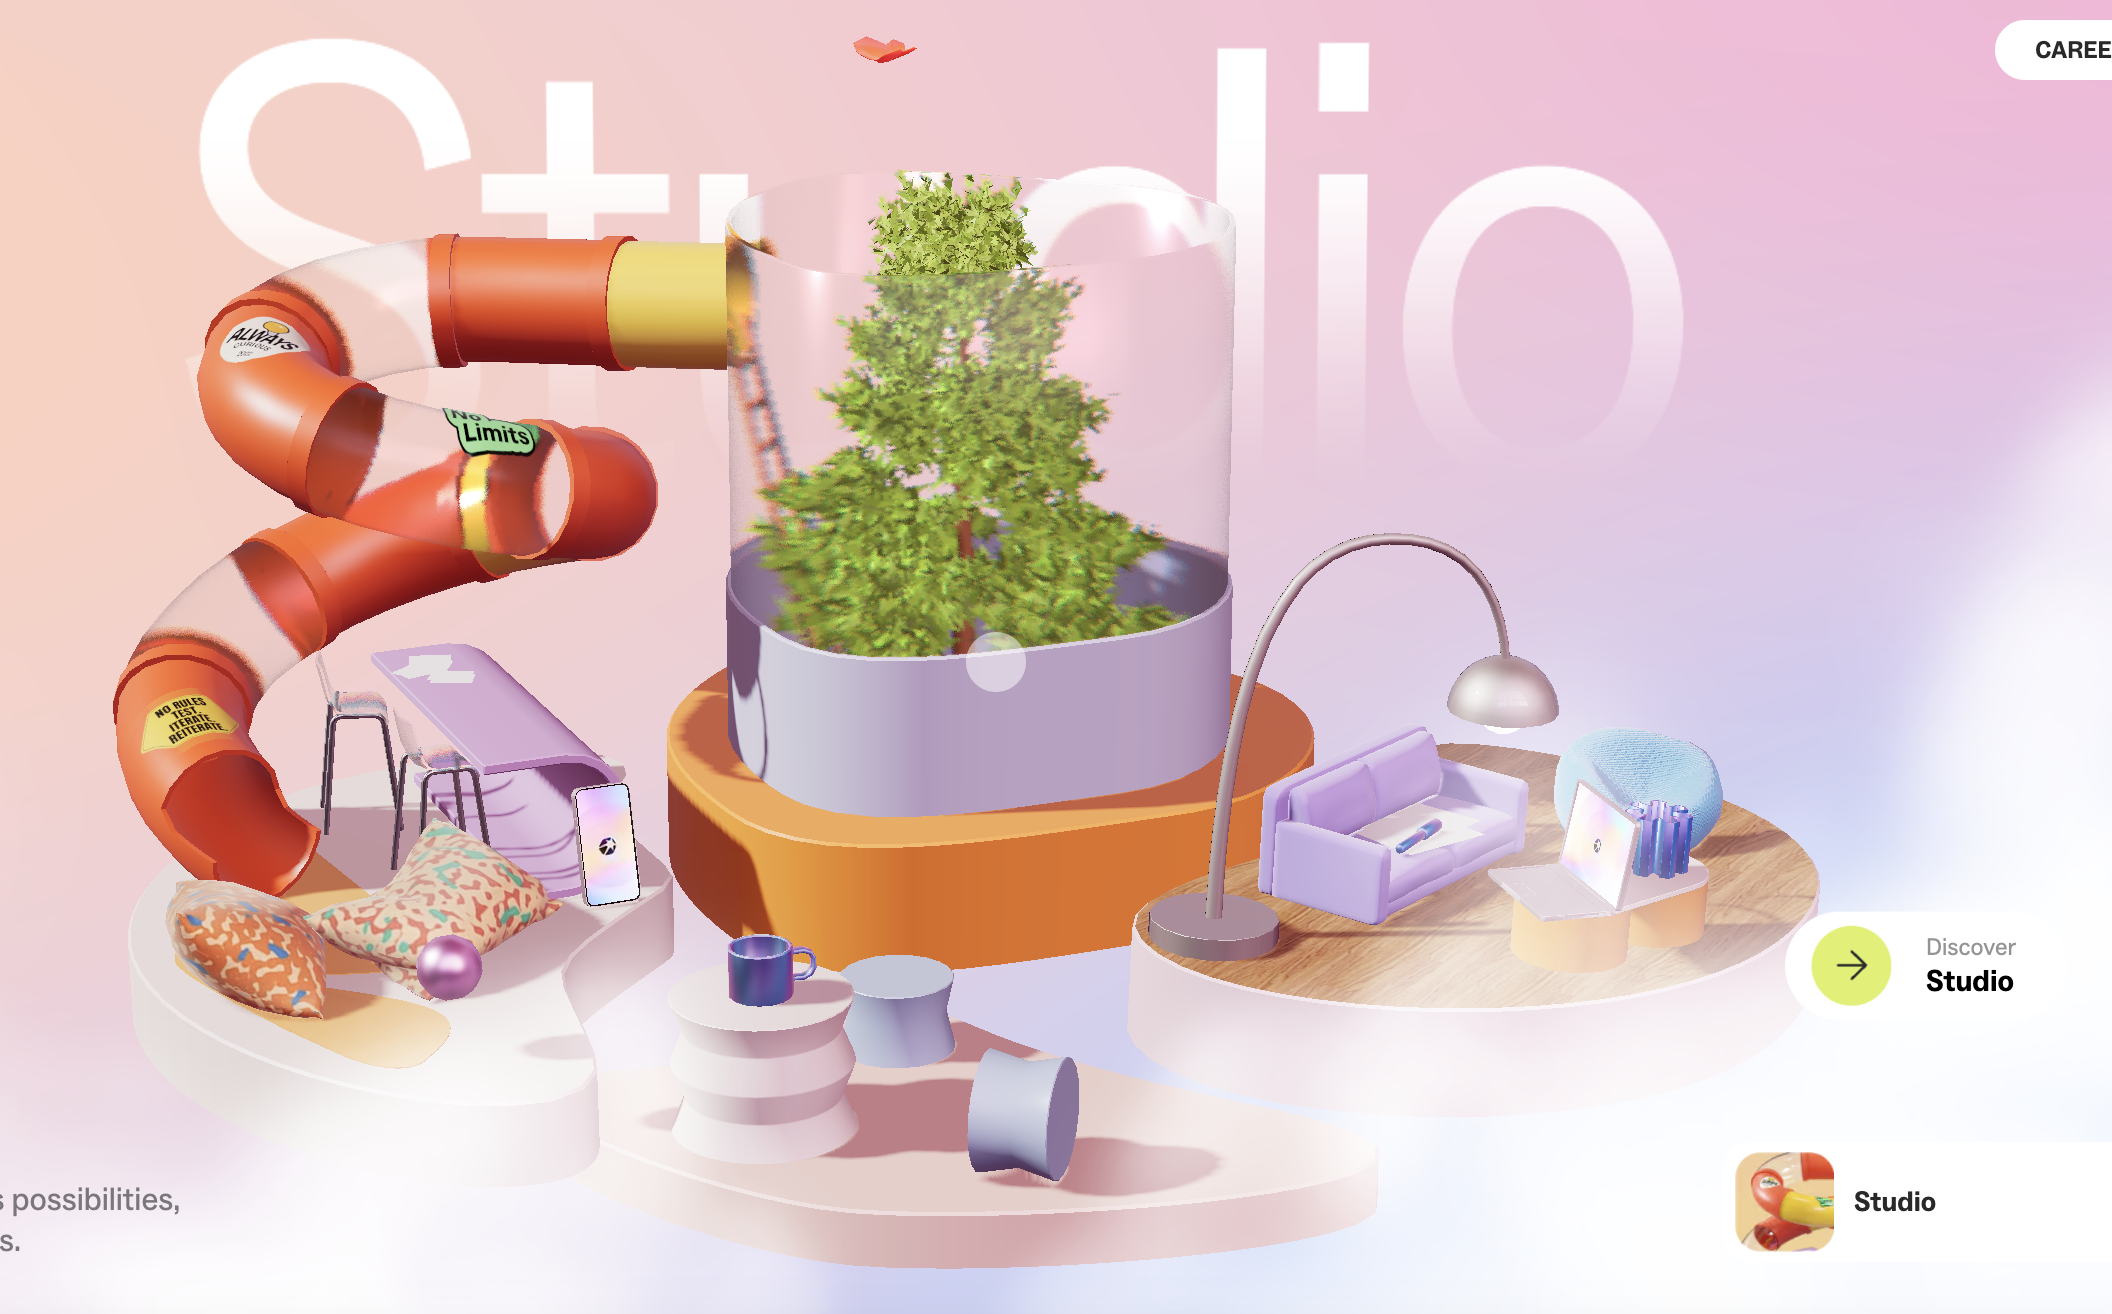
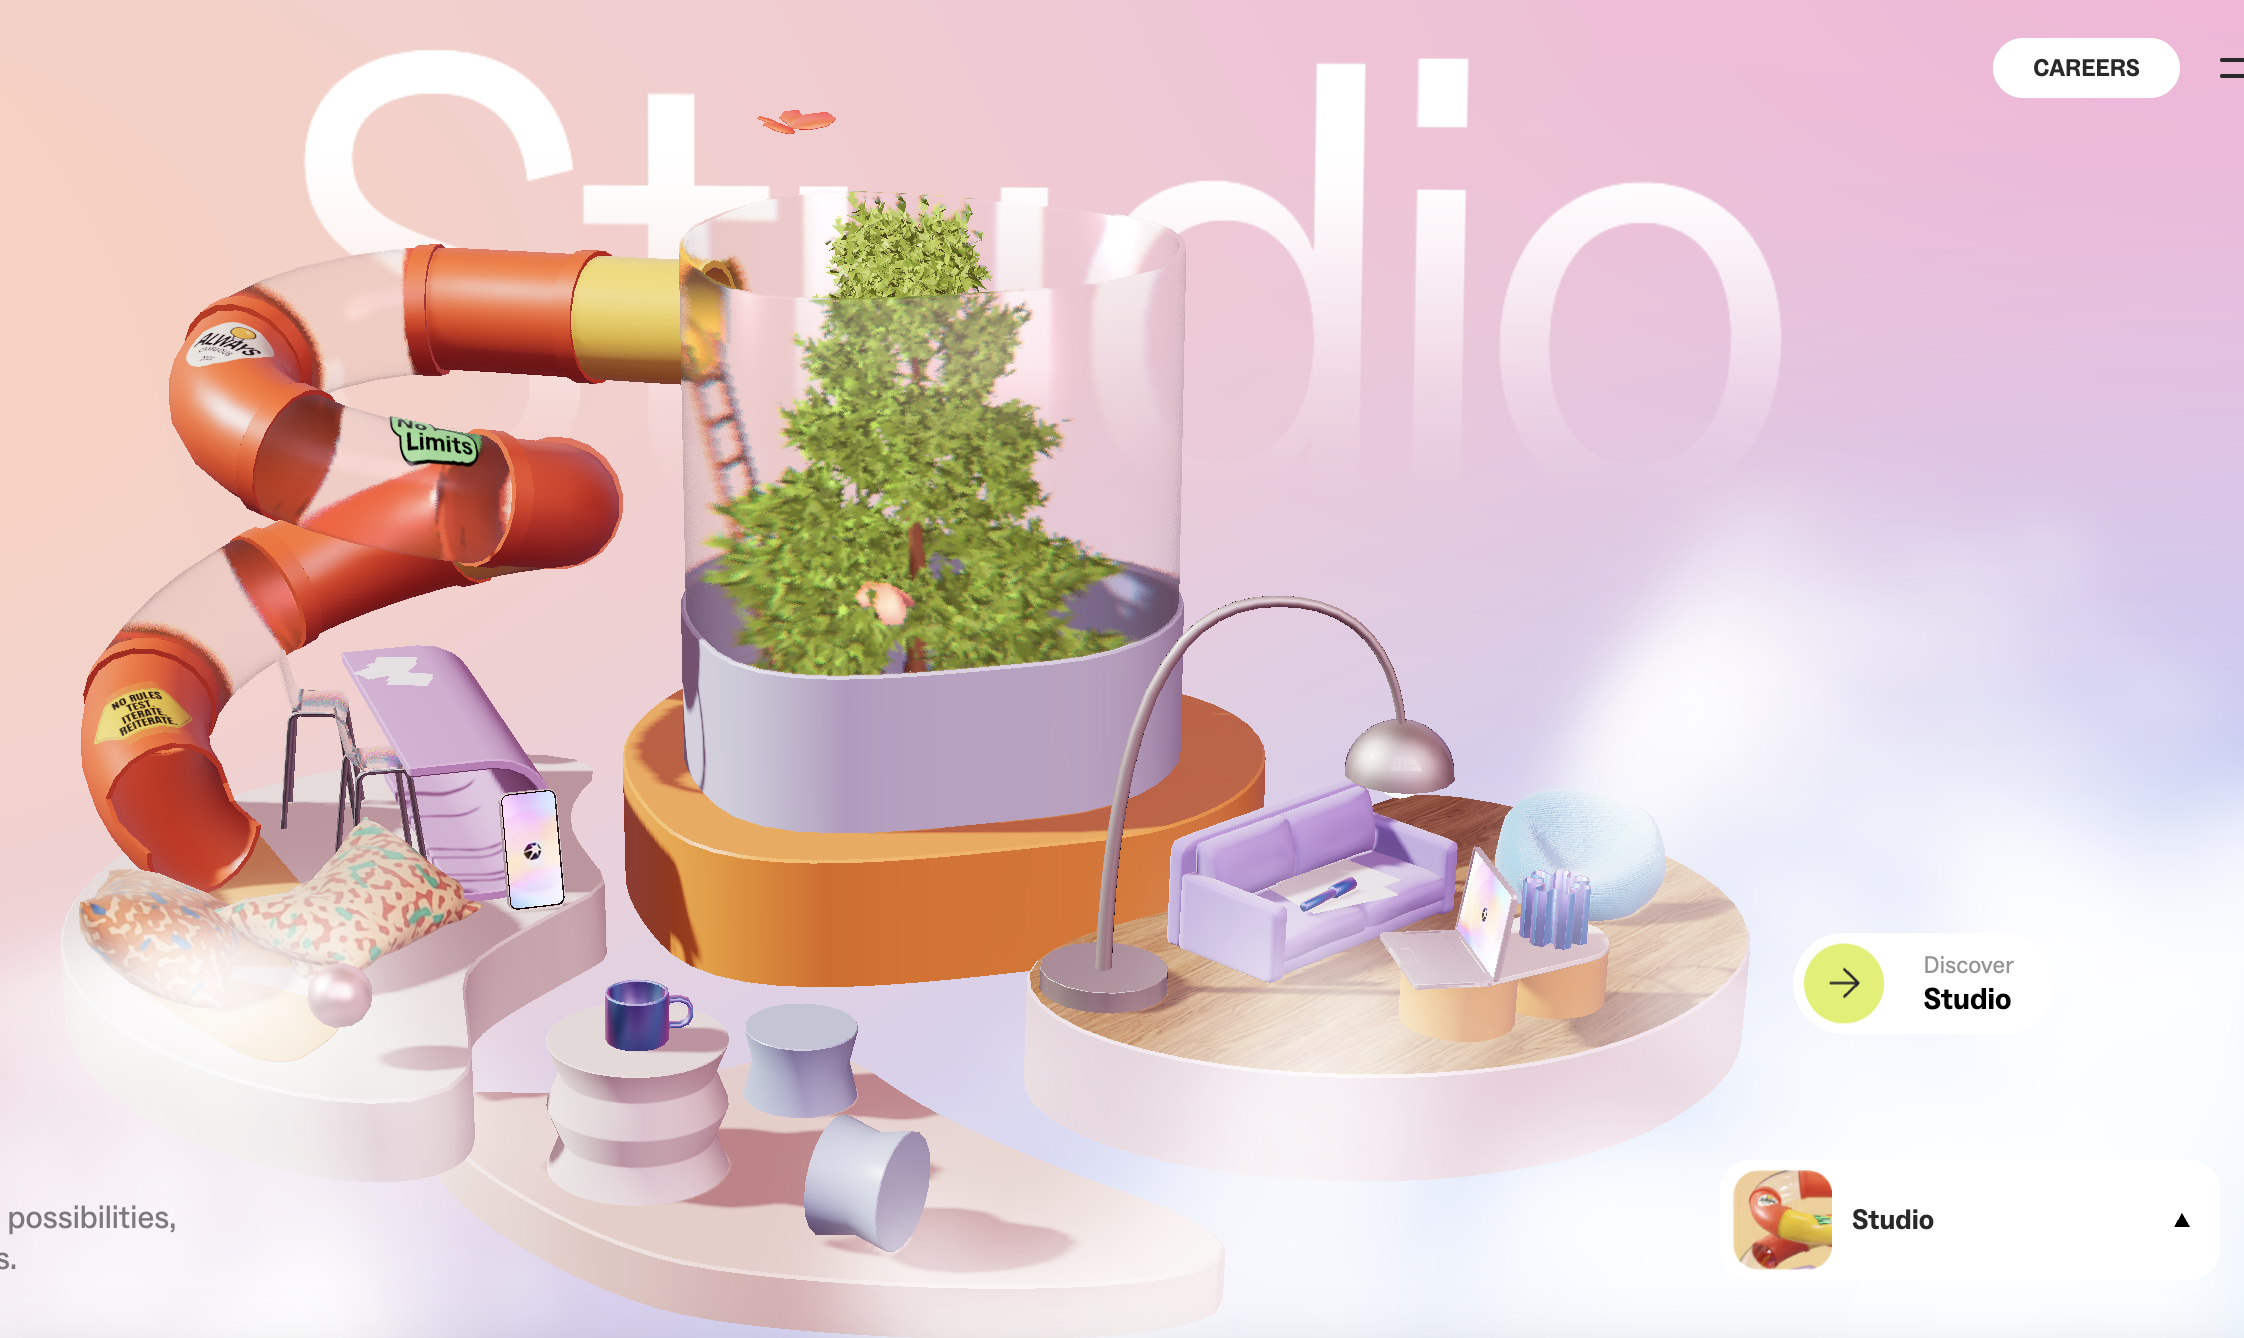
lên

diff --git a/style.css b/style.css
@@ -21,7 +21,7 @@
 .img-box{
   position: relative;
   width: 90%;
-  height: 700px;
+  height: 680px;
   overflow: hidden;
   border-radius: 20px;
   margin-top: 30px;
